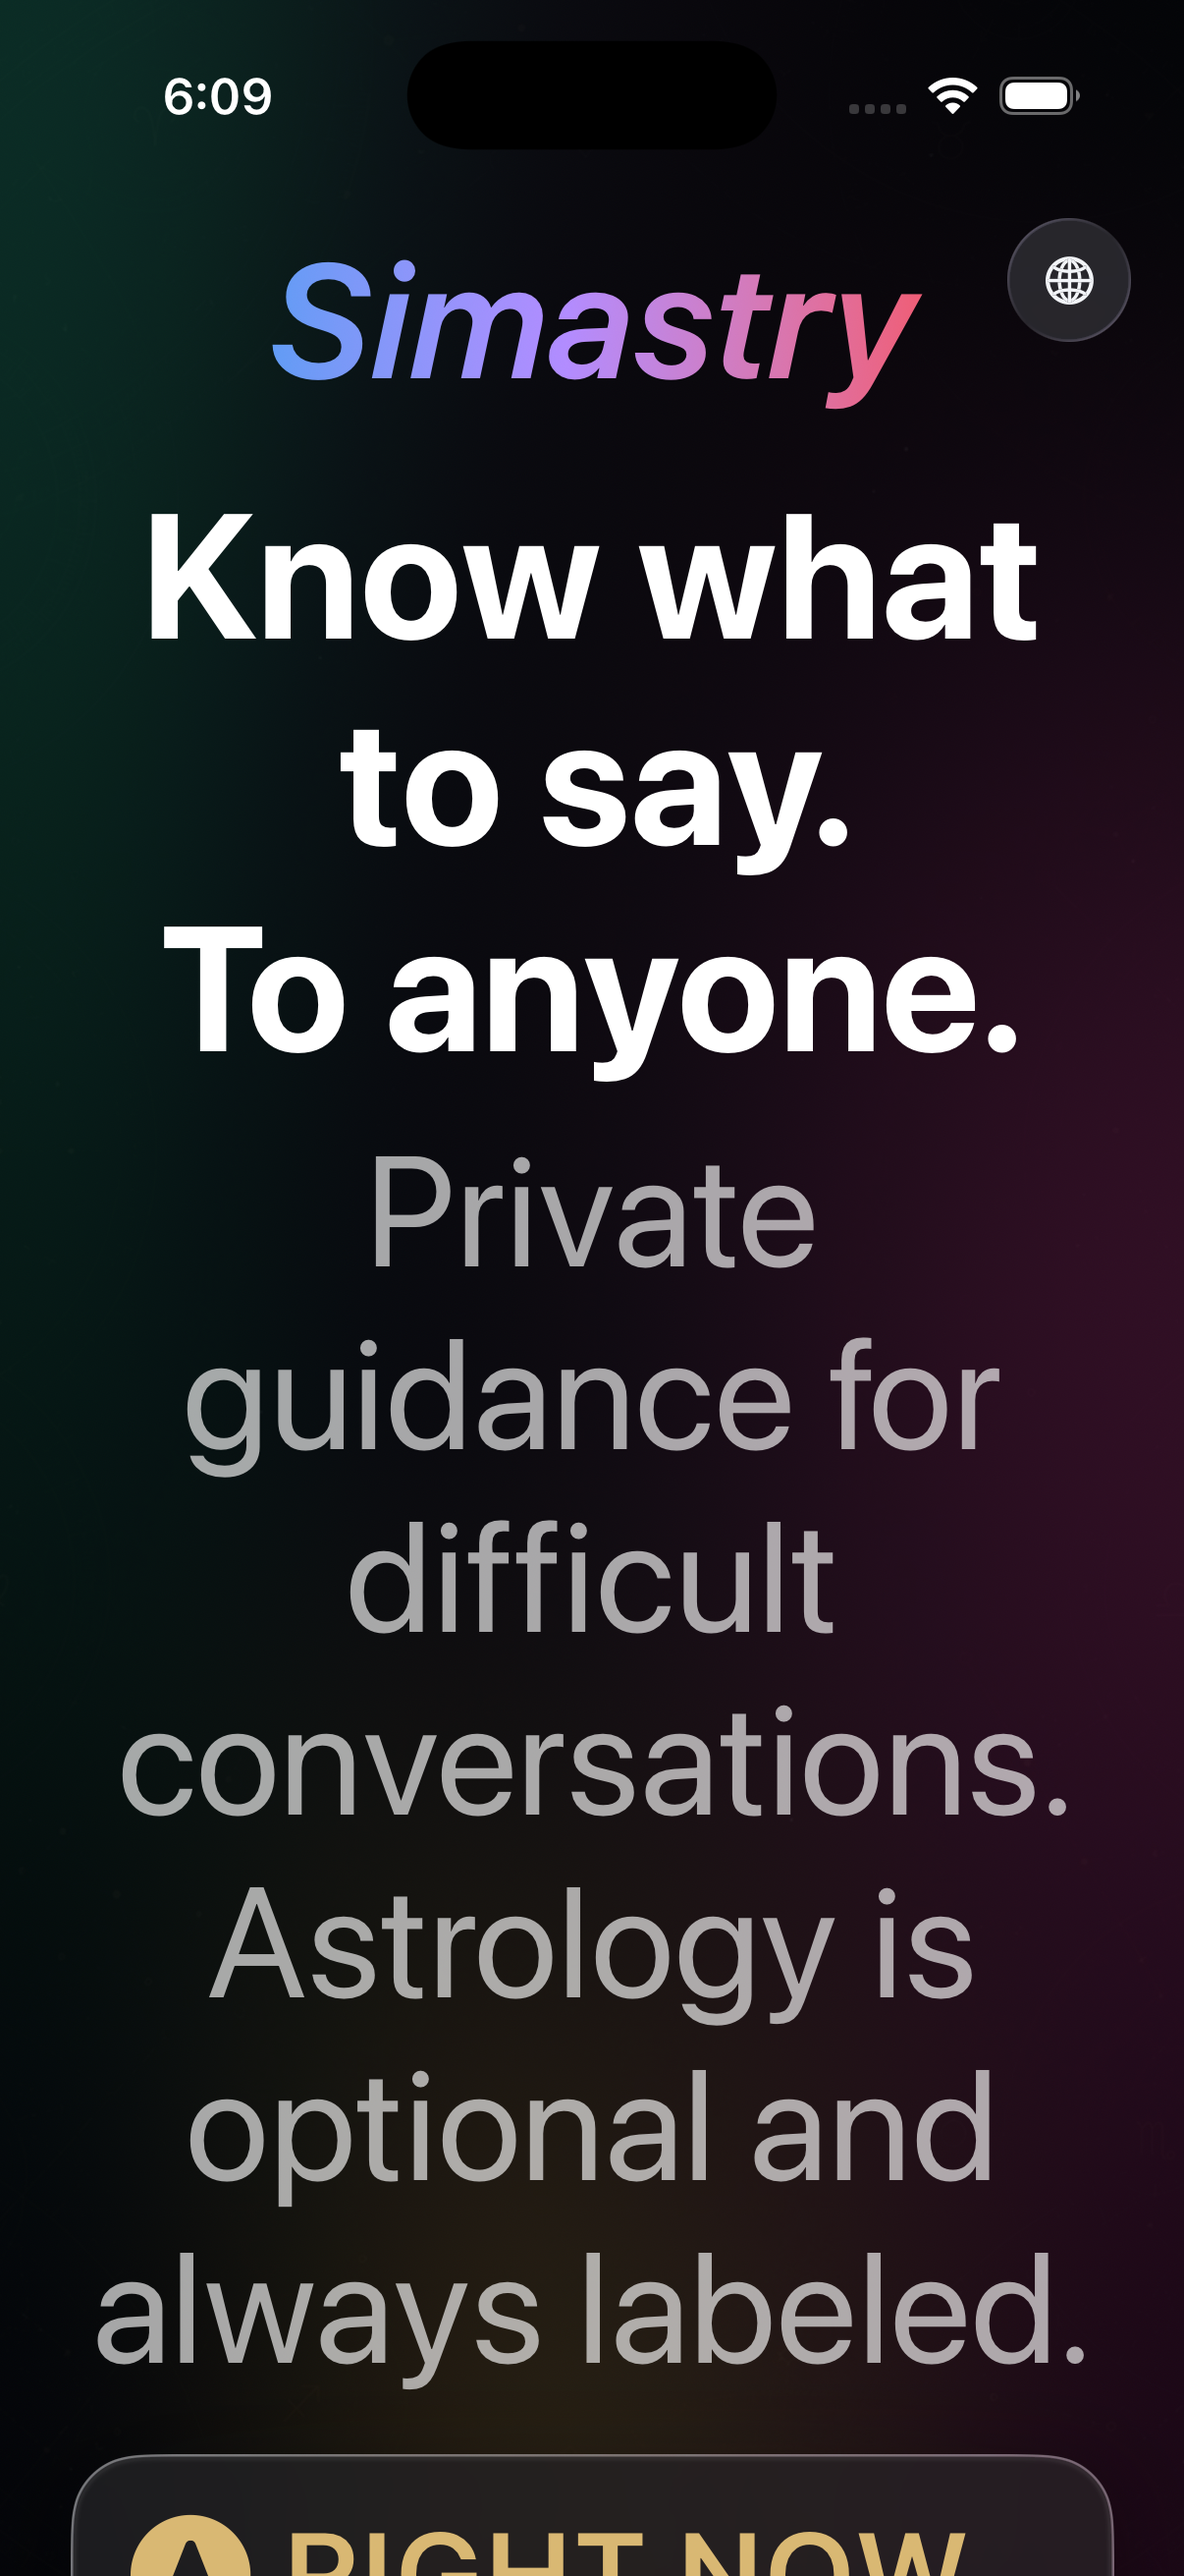
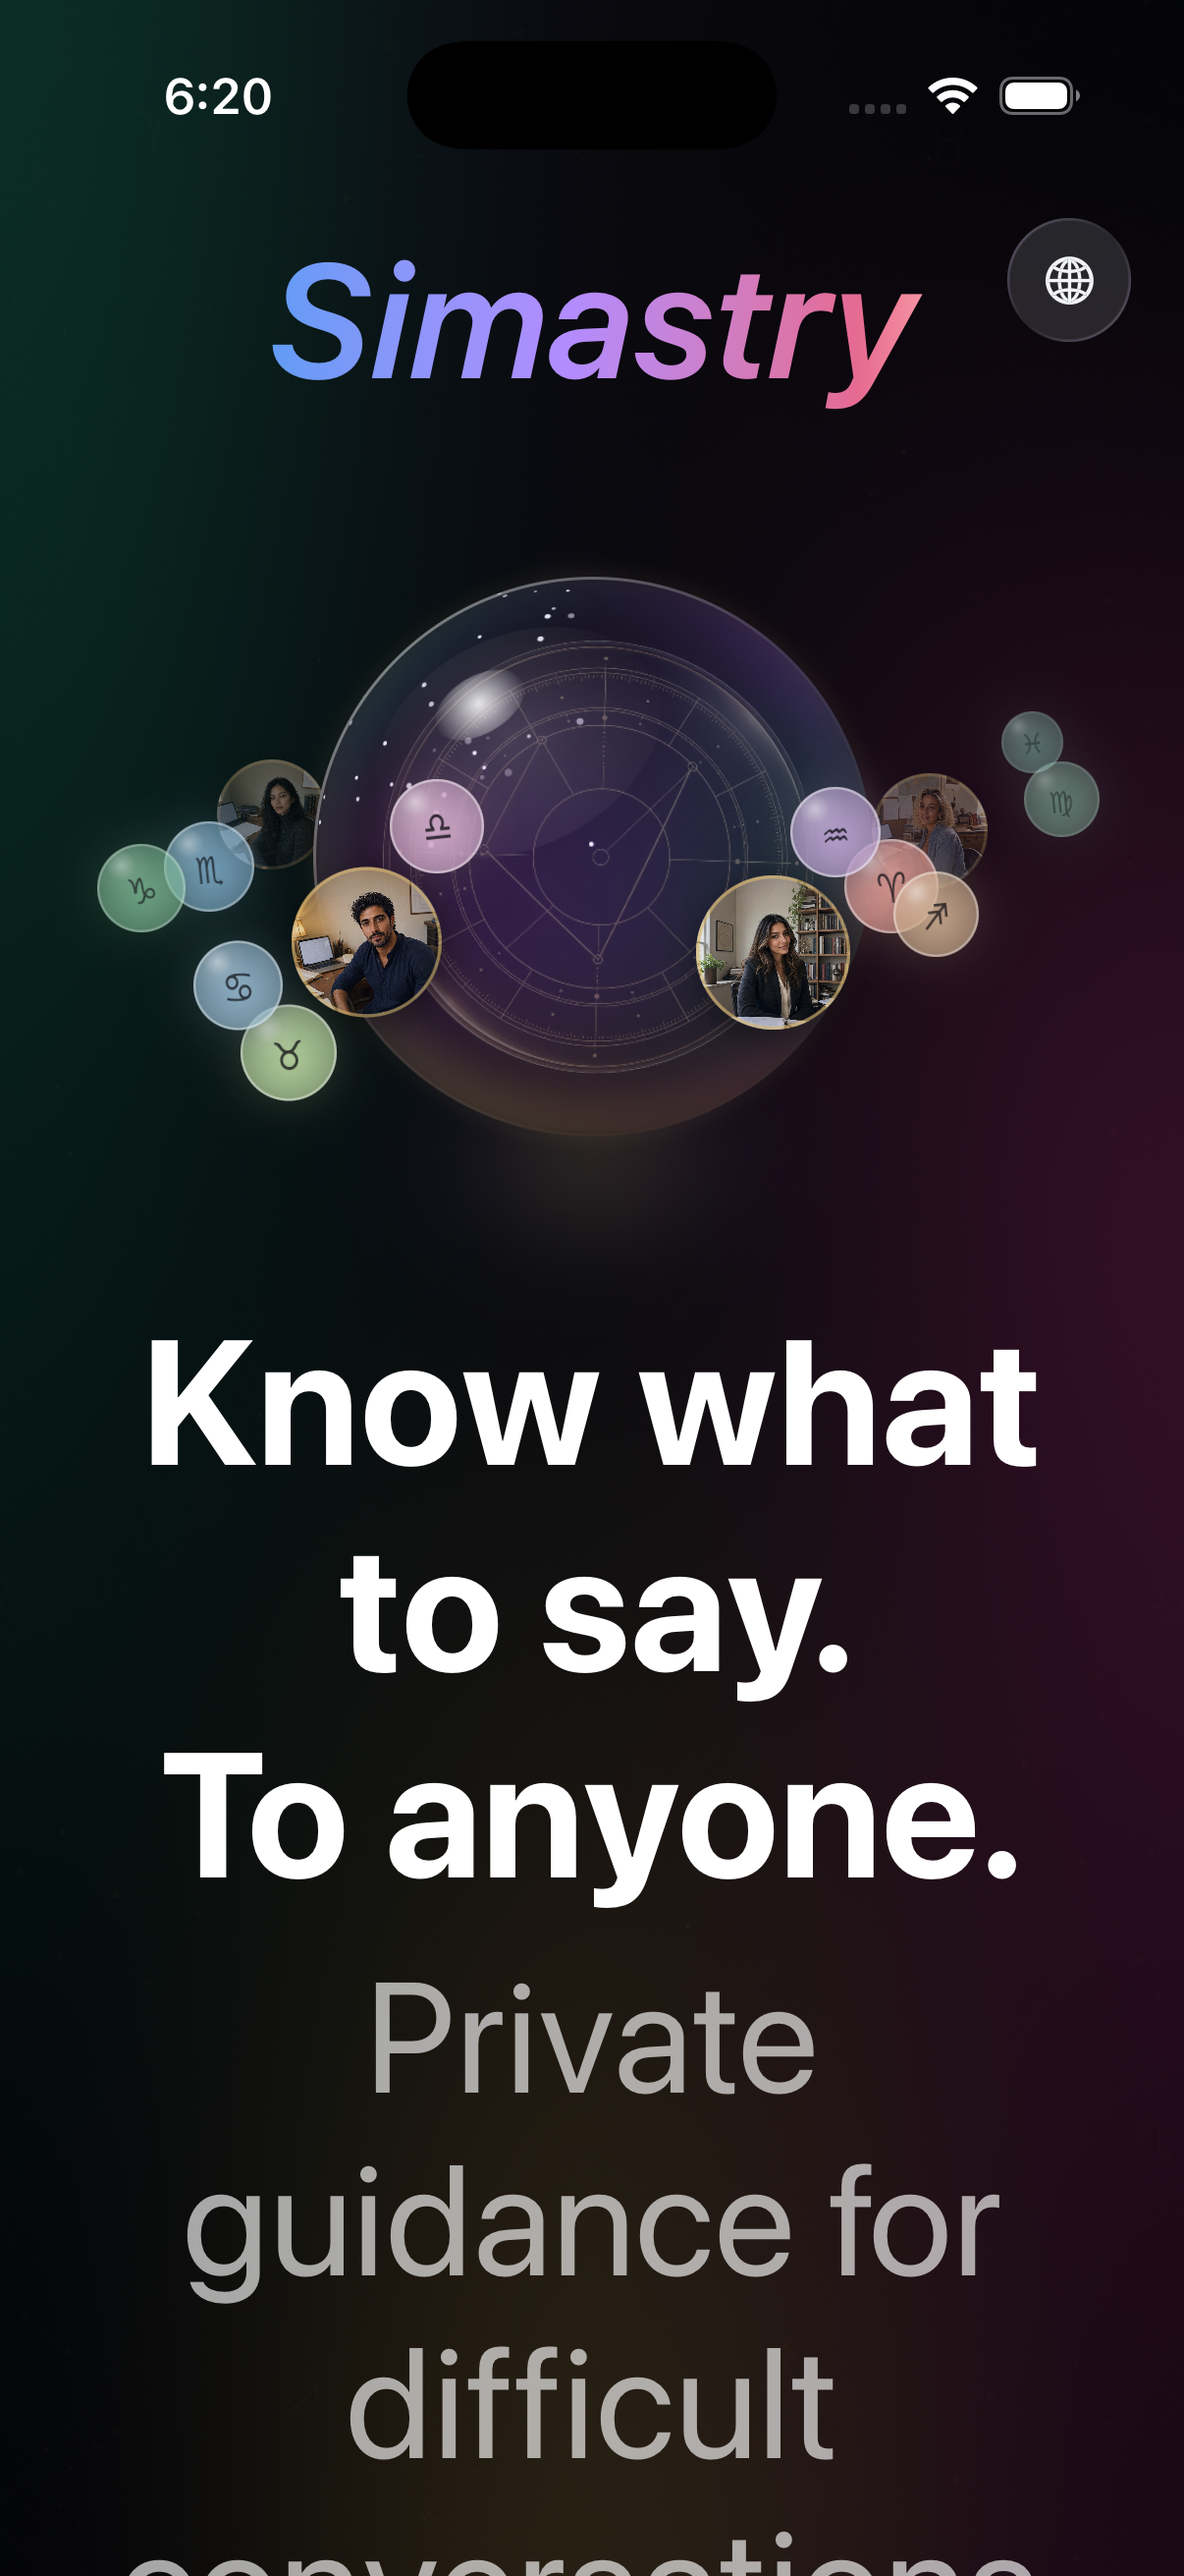
Revive the crystal ball as the landing hero
The orphaned CrystalBallView — the layered glass sphere with the
engraved wheel, starfield, Metal lens distortion, drifting zodiac
beads, and the five expert portraits orbiting in depth — becomes the
landing hero, sized off real screen height. A quiet feature line under
the now-line names what else is inside (Ask five experts, with the real
portrait cluster · Practice a conversation · Decode a text). The
primary CTA becomes a pinned bottom bar over the scrolling story so it
is always tappable with zero scrolling at default type; at
accessibility sizes it rides in the flow instead (the Compass strip's
size-class swap pattern). Drag-to-spin coexistence with the scroll and
the tap ripple remain for owner device QA — simctl cannot synthesize
those gestures.

Verified: mirror Debug build with default.metallib present in the app
bundle (lens bulge visible in the 17pro shot); 51/51 SimastryTests; the
landing funnel UITest green after both layout iterations; all four
landing baselines regenerated and reviewed (hero + feature line + CTA
above the fold at default type, AX3/AX5 scroll cleanly with the CTA in
flow).

diff --git a/App/Views/CrystalLandingView.swift b/App/Views/CrystalLandingView.swift
@@ -8,6 +8,7 @@ struct CrystalLandingView: View {
     @Bindable var viewModel: AppViewModel
     @ObservedObject private var localization = LocalizationManager.shared
     @Environment(\.accessibilityReduceMotion) private var reduceMotion
+    @Environment(\.dynamicTypeSize) private var dynamicTypeSize
 
     @State private var appeared = false
     /// The real thing, before any tap: today's windows computed on-device
@@ -22,7 +23,7 @@ struct CrystalLandingView: View {
 
             ZStack {
                 MoodMeshBackground()
-                activationPage(compact: compact)
+                activationPage(compact: compact, height: geo.size.height)
             }
         }
         .preferredColorScheme(.dark)
@@ -34,11 +35,19 @@ struct CrystalLandingView: View {
         }
     }
 
-    private func activationPage(compact: Bool) -> some View {
-        ScrollView {
+    private func activationPage(compact: Bool, height: CGFloat) -> some View {
+        // Sized off real height, not the compact flag. The primary CTA is a
+        // pinned bottom bar (always tappable, no scrolling needed — the
+        // funnel UITest depends on that), so the ball only has to leave the
+        // headline and the now-line near the first fold, not the whole page.
+        let ballDiameter = min(190, max(150, (height - 500) / 1.38))
+
+        return ScrollView {
             VStack(spacing: compact ? 14 : 18) {
                 SimastryWordmark(font: .title3.bold().italic())
                     .padding(.top, compact ? 8 : 14)
+
+                CrystalBallView(diameter: ballDiameter)
 
                 VStack(spacing: 8) {
                     Text("Know what to say.\nTo anyone.")
@@ -71,11 +80,16 @@ struct CrystalLandingView: View {
                         }
                 }
 
+                featureLine
+
                 VStack(spacing: 10) {
-                    CrystalPrimaryButton(title: "Try Compass — no account needed") {
-                        beginGuestCompass()
+                    // At accessibility sizes the pinned bar would fill half
+                    // the screen and collide with the story behind it — the
+                    // CTA rides in the flow instead (the same size-class
+                    // swap the Compass strip and bearings row use).
+                    if dynamicTypeSize.isAccessibilitySize {
+                        primaryCTA
                     }
-                    .accessibilityIdentifier("landing.crystal.cta")
 
                     Button {
                         HapticManager.buttonPress()
@@ -122,6 +136,36 @@ struct CrystalLandingView: View {
             .frame(maxWidth: .infinity)
         }
         .scrollIndicators(.hidden)
+        // The one action every visitor needs is never below the fold: a
+        // pinned bar over the scrolling story (constant-height inset per
+        // size class — no mid-interaction appearance, so none of the
+        // layout-feedback class).
+        .safeAreaInset(edge: .bottom, spacing: 0) {
+            if !dynamicTypeSize.isAccessibilitySize {
+                primaryCTA
+                    .padding(.horizontal, 24)
+                    .padding(.top, 10)
+                    .padding(.bottom, 6)
+                    .frame(maxWidth: 620)
+                    .frame(maxWidth: .infinity)
+                    .background {
+                        LinearGradient(
+                            colors: [.black.opacity(0), .black.opacity(0.42), .black.opacity(0.62)],
+                            startPoint: .top,
+                            endPoint: .bottom
+                        )
+                        .ignoresSafeArea(edges: .bottom)
+                        .allowsHitTesting(false)
+                    }
+            }
+        }
+    }
+
+    private var primaryCTA: some View {
+        CrystalPrimaryButton(title: "Try Compass — no account needed") {
+            beginGuestCompass()
+        }
+        .accessibilityIdentifier("landing.crystal.cta")
     }
 
     /// The real current window, or a shimmer while the first compute lands.
@@ -198,6 +242,53 @@ struct CrystalLandingView: View {
             .foregroundStyle(CrystalMood.gold)
     }
 
+    /// One quiet line naming what else is inside — chrome, not data. The
+    /// expert cluster uses the real approved portraits; everything else is
+    /// a plain glyph. Falls to a three-row list when the line doesn't fit
+    /// (accessibility sizes included).
+    private var featureLine: some View {
+        ViewThatFits(in: .horizontal) {
+            HStack(spacing: 8) {
+                featureItem(text: "Ask five experts") { ExpertPortraitCluster() }
+                featureDot
+                featureItem(text: "Practice a conversation") { featureGlyph("theatermasks.fill") }
+                featureDot
+                featureItem(text: "Decode a text") { featureGlyph(SimastryIcon.lens) }
+            }
+
+            VStack(alignment: .leading, spacing: 7) {
+                featureItem(text: "Ask five experts") { ExpertPortraitCluster() }
+                featureItem(text: "Practice a conversation") { featureGlyph("theatermasks.fill") }
+                featureItem(text: "Decode a text") { featureGlyph(SimastryIcon.lens) }
+            }
+        }
+        .accessibilityElement(children: .ignore)
+        .accessibilityLabel("Also inside: ask five experts, practice a conversation, decode a text.")
+        .accessibilityIdentifier("landing.featureLine")
+    }
+
+    private func featureItem(text: String, @ViewBuilder icon: () -> some View) -> some View {
+        HStack(spacing: 5) {
+            icon()
+            Text(text)
+                .font(.caption.weight(.medium))
+                .foregroundStyle(.white.opacity(0.64))
+                .lineLimit(1)
+        }
+    }
+
+    private func featureGlyph(_ systemName: String) -> some View {
+        Image(systemName: systemName)
+            .font(.caption2.weight(.semibold))
+            .foregroundStyle(.white.opacity(0.55))
+    }
+
+    private var featureDot: some View {
+        Text("·")
+            .font(.caption.weight(.medium))
+            .foregroundStyle(.white.opacity(0.35))
+    }
+
     private func beginGuestCompass() {
         viewModel.firstReadOnboardingIntent = .predict
         withAnimation(SimastryMotion.stateChange) {
@@ -234,6 +325,28 @@ private let landingClockFormatter: DateFormatter = {
     formatter.dateFormat = "h:mm a"
     return formatter
 }()
+
+/// Three overlapping expert portraits at caption scale — the real approved
+/// art standing in for a generic "experts" glyph on the feature line.
+private struct ExpertPortraitCluster: View {
+    private var portraitNames: [String] {
+        Array(ExpertAstrologerRegistry.specialists.compactMap(\.profileImageName).prefix(3))
+    }
+
+    var body: some View {
+        HStack(spacing: -6) {
+            ForEach(portraitNames, id: \.self) { name in
+                Image(name)
+                    .resizable()
+                    .scaledToFill()
+                    .frame(width: 18, height: 18)
+                    .clipShape(Circle())
+                    .overlay(Circle().strokeBorder(.white.opacity(0.28), lineWidth: 0.6))
+            }
+        }
+        .accessibilityHidden(true)
+    }
+}
 
 /// Flighty-inspired high-contrast primary action: immediately readable, while
 /// the adjacent optional chart action uses interactive Liquid Glass.
